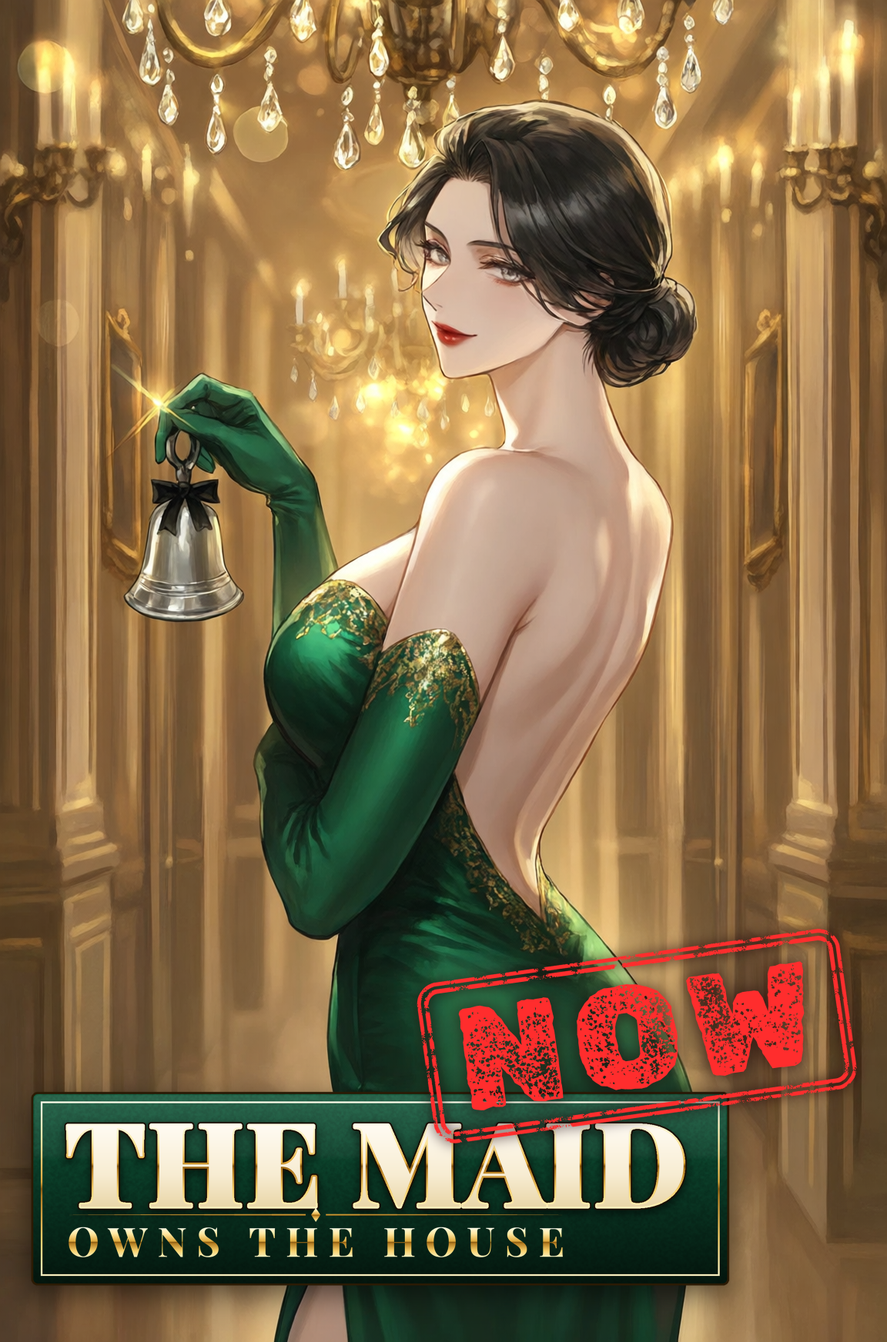
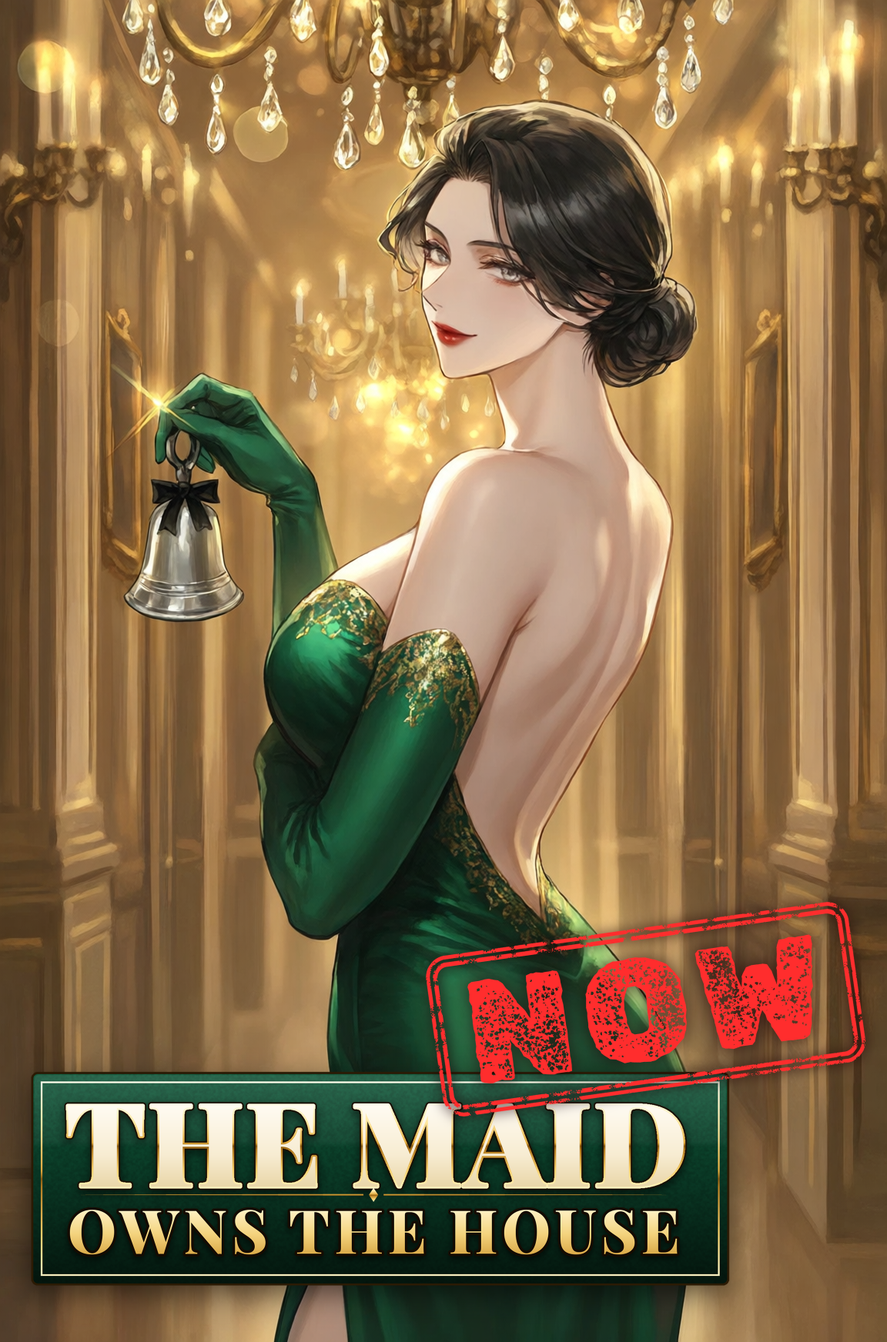
Cover titles v4: bigger lead-ins and more contrast on ten more weak covers
Every lead-in now reads on a 160 px shelf tile. One Miracle a Day: ONE /
A DAY 70 -> 124 px with a navy-black keyline. Wolf Clan's Guest: THE WOLF
CLAN'S 58 -> 92 px on its own stitched strap, off the white fur. One-Copper
Inn: THE ONE-COPPER 56 -> 76 px in pale copper with a keyline, INN tracked
wide; the sign still clears her horns. Blackthorn: The Only Girl at 64 ->
88 px, deeper crimson, white keyline. Thornwitch: The Only Man at 128 ->
152 px, thickened inside a 9 px navy outline over a darker spot. Maid: OWNS
THE HOUSE as wide as THE MAID (640 tracked -> 790 px) in light gold with a
keyline; NOW lifted off the letters. Villain Dies: CHAPTER THREE 42 -> 66 px,
dies in 64 -> 72 px (800), Villain 176 -> 150; the page now tilts +6 deg so
it stays under her gloved hand. One-Year Bride: ONE-YEAR cap 48 -> 78 with a
keyline, heavier keyline on Bride. Annulled: ANNULLED, THEN 62 -> 88 px with
a dark-green keyline, strike rule widened. Struck: STRUCK FROM THE cap
38 -> 54. ALLOCATION rows and zones updated; the checker passes.

Changed region(s): [[0.0312, 0.6502, 0.9688, 0.9599]]

diff --git a/docs/stories-50/cover-style-v3/titles/ALLOCATION.md b/docs/stories-50/cover-style-v3/titles/ALLOCATION.md
@@ -43,7 +43,7 @@ are at least ~45% of its cap height, so every word still reads on a 160 px shelf
 | # | storyId | Title | Recipe | Genre / tone | Primary | Accent | Place | Treatment | Zone | Face | Brief |
 |---|---|---|---|---|---|---|---|---|---|---|---|
 | 1 | story_affection_97 | Affection: 97 | holy-high-key | Court romance-fantasy comedy; airy, teasing | Cormorant | Orbitron | LR | glass status window | .33-.94,.45-.93 | .37-.63,.06-.30 | A frosted-glass status window about 60% of the cover wide over the chest and waist, below his hand (pearl-white plate, deep rose-gold border, a stronger pink outer glow so the window lifts off the white suit). Hero: a giant "97" in Cormorant 700 lining figures, rose-to-gold gradient; above it "Affection" in Cormorant italic 700, deep rose #9b2251 with a white halo; an Orbitron "CROWN PRINCE" micro-label and a 97% pink gauge bar with a heart sell the game window. Art: white, silver, ice blue. |
-| 2 | story_annulled_then_claimed | Annulled, Then Claimed | gilded-over-the-shoulder | Villainess romance fantasy; scandal turned rescue, glamorous | Great Vibes | Cinzel | BT | gold swash + strike rule | .08-.92,.70-.95 | .44-.64,.05-.22 | "ANNULLED, THEN" in tracked Cinzel ivory caps with a thin crimson rule struck through ANNULLED; hero "Claimed" huge in Great Vibes, gold metal fill, deep-emerald stroke and a swash underline, centred on the emerald coat. Gold on emerald, one red line. |
+| 2 | story_annulled_then_claimed | Annulled, Then Claimed | gilded-over-the-shoulder | Villainess romance fantasy; scandal turned rescue, glamorous | Great Vibes | Cinzel | BT | gold swash + strike rule | .08-.92,.70-.95 | .44-.64,.05-.22 | "ANNULLED, THEN" in Cinzel 800 ivory caps at 88 px (cap about 62 px; was 62 px tracked wide, lost on the shelf) with a dark-green keyline and shadow, and a crimson rule struck through ANNULLED; hero "Claimed" huge in Great Vibes, gold metal fill, deep-emerald stroke and a swash underline, centred on the emerald coat. Gold on emerald, one red line. |
 | 3 | story_back_row_at_my_own_wedding | Back Row at My Own Wedding | melodrama-red-accent | Modern revenge melodrama with comedy; humiliation at the altar | Parisienne | Playfair Display | LR | chalk welcome board | .24-.98,.70-.97 | .17-.44,.18-.36; .50-.74,.03-.19 | The wedding welcome board, big: a charcoal slate with a gold frame, tilted -3 deg, 73% of the cover wide at lower right under both faces, where her hand seems to hold it and the roses show below. Hero "Back Row" in Parisienne chalk at a 124 px cap with a 3 px chalk stroke so the script has weight; "AT MY OWN WEDDING" in Playfair Display 700 caps at a 44 px cap; above them a crossed-out "Front Row" in chalk with a red chalk strike and a red chalk heart. Chalk white on slate against blue church light and red roses. |
 | 4 | story_cleanup_crew_e_rank | Cleanup Crew, E-Rank | system-window | Dungeon action comedy, underdog; blue-collar | Bungee | none | DG | hazard tape | .04-.96,.08-.29 | .42-.60,.34-.48 | Hazard tape strung across the corridor in front of the red gate, rising +7 deg above her head: hero "CLEANUP CREW" in black Bungee on yellow #ffd21a tape with black chevron ends, and "E-RANK" smaller in a worn grey hex rank badge (red E) pinned to the tape end. Yellow and black against acid green; the gate stays half visible. |
 | 5 | story_crest_academy | Crest Academy | holy-high-key | Noble academy fantasy, stats and duels; bright rivalry | Marcellus | none | BT | academy seal lockup | .10-.90,.63-.97 | .42-.66,.06-.24 | An academy seal: a large navy enamel shield (silver rim and inline, a silver star over two crossed rapiers) stands behind the middle of hero "CREST", set across it in Marcellus at about 76% of the cover width, navy enamel with a silver keyline, a navy edge and a pearl halo so the letters read on the white skirt and on the shield; "ACADEMY" in widely tracked silver Marcellus on a navy ribbon with forked tails over the shield's point. Navy and silver on pearl white. |
@@ -59,9 +59,9 @@ are at least ~45% of its cap height, so every word still reads on a 160 px shelf
 | 15 | story_married_to_the_shrine_fox | Married to the Shrine Fox | gilded-over-the-shoulder | Yokai romcom; teasing, imperious, warm | Shojumaru | Cormorant | LR | vermilion lacquer + gold | .38-.96,.76-.96 | .45-.60,.06-.18 | Reworked from the sample so every line reads left to right, nothing turned on its side: "Married to the" in Cormorant italic 600 warm ivory, then hero "SHRINE FOX" in Shojumaru, torii-vermilion #d8432a lacquer fill with an ivory inline and a gold outer stroke, right-aligned over the floor and kimono hem, with small gold fox-fire sparkles. Vermilion and gold on emerald. |
 | 16 | story_noodles_or_blood | Noodles or Blood | hot-pink-poster | Martial-arts dorm comedy; scrappy, hungry | Potta One | Protest Revolution | DG | noren banner + drips | .10-.83,.68-.98 | .32-.58,.04-.22 | A ramen-shop noren tilted -6 deg across the black trousers: crimson cloth with soft fold shading and a woven brush texture, a darker top hem on a wooden rod, and two slits cut up from the hem so it hangs as three panels. Hero "NOODLES" in fat Potta One cream with a brown stroke, a small "or", and "BLOOD" in Protest Revolution dry brush, also cream with a near-black stroke so the two words balance, with glossy red drips running from its letters down the cloth. Crimson, cream and red on pink. |
 | 17 | story_nova_house | Nova House | cosy-lamp-bokeh | Mind-reading house mystery; cosy on top, menace underneath | Poiret One | none | UL | lamp glow | .03-.47,.02-.19 | .50-.74,.08-.27 | Corner logo in the dark bookcase corner above the lamp: hero "NOVA" in Poiret One across x .03-.47, thickened with a 5 px same-colour stroke and edged with a 4 px dark-brown keyline (#1e1008) so the hairline face holds against the bright window, warm white-gold with a soft screen-blend lamp glow and a four-point nova sparkle on the O; "HOUSE" under it at about 0.7x NOVA's cap with the same stroke and keyline, tracked to the same width. A dark warm spot (#140c05, 0.78) behind it keeps the letters off the bokeh. Amber and cream. |
-| 18 | story_one_miracle_a_day | One Miracle a Day | starlit-night | Minor-god tournament fantasy; hopeful, sweet | Pinyon Script | Marcellus | CG | holy gold glow + starburst | .10-.90,.63-.85 | .43-.53,.11-.18 | Centred in the galaxy gap under the floating goddess: "ONE" and "A DAY" in tracked Marcellus silver; hero "Miracle" in Pinyon Script with gold metal fill, a 3 px white inner stroke to hold the hairlines and a soft gold halo, a starburst sparkle on the i. Gold on cobalt cosmos. |
+| 18 | story_one_miracle_a_day | One Miracle a Day | starlit-night | Minor-god tournament fantasy; hopeful, sweet | Pinyon Script | Marcellus | CG | holy gold glow + starburst | .10-.90,.66-.92 | .43-.53,.11-.18 | Centred in the galaxy gap under the floating goddess: "ONE" and "A DAY" in Marcellus at 124 px (cap about 88 px, was 70 px tracked wide and thin), white-silver with a 7 px navy-black keyline and a dark shadow so they hold on the stars; hero "Miracle" in Pinyon Script with gold metal fill, a 3 px white inner stroke to hold the hairlines and a soft gold halo, a starburst sparkle on the i. Gold on cobalt cosmos. |
 | 19 | story_one_week_she_said | One Week, She Said | cosy-lamp-bokeh | Second-chance romance, slice of life; rainy, tender | Nanum Pen Script | none | LR | sticky note | .50-.96,.74-.96 | .40-.62,.05-.29 | A pale-yellow sticky note with a curled corner and soft shadow, tilted +4 deg over the couch and socks: hero "One week," big and "she said." smaller in Nanum Pen Script blue-ballpoint ink, with seven tally marks and the last one circled. Pastel note on cream sweater and rain-grey. |
-| 20 | story_one_year_bride | One-Year Bride | gilded-over-the-shoulder | Contract-marriage romcom; poised, rule-bound | Alex Brush | Italiana | LL | contract signature + wax seal | .04-.90,.70-.91 | .50-.68,.05-.22 | No card: the contract, signed. Over a dark warm spot on the gold floor at lower left, rising -4 deg: "ONE-YEAR" typed in tracked Italiana ivory, then a dotted "x ...." signature line running 86% of the cover wide, with hero "Bride" signed across it in huge gold Alex Brush (690 px wide, dark keyline, warm glow) and a gold curled flourish under it, ending in a red wax seal with a B. Gold and ivory over the emerald dress. |
+| 20 | story_one_year_bride | One-Year Bride | gilded-over-the-shoulder | Contract-marriage romcom; poised, rule-bound | Alex Brush | Italiana | LL | contract signature + wax seal | .04-.91,.67-.91 | .50-.68,.05-.22 | No card: the contract, signed. Over a dark warm spot on the gold floor at lower left, rising -4 deg: "ONE-YEAR" typed in Italiana ivory at a 78 px cap (was 48), thickened with an ivory inner stroke and a dark keyline, then a dotted "x ...." signature line running 86% of the cover wide, with hero "Bride" signed across it in huge gold Alex Brush (690 px wide, 5 px dark keyline, warm glow) and a gold curled flourish under it, ending in a red wax seal with a B. Gold and ivory over the emerald dress. |
 | 21 | story_pack_rank | Pack Rank | thumbnail-pop | Beastfolk martial academy rivalry; feral, fast | Reggae One | none | DG | claw-scratch cuts | .04-.96,.78-.97 | .34-.64,.14-.34 | "PACK" small over hero "RANK" in Reggae One, white with a black stroke and a steel-grey drop shadow, tilted -5 deg across the trousers and tail, cut by three diagonal claw scratches (see-through gaps) with a cyan electric glow along the cuts. White, black and cyan on yellow. |
 | 22 | story_paid_to_kill_me | Paid to Kill Me | ink-and-one-red | Bodyguard romance thriller; cold, dangerous | Bebas Neue | Alfa Slab One | WR | rubber stamp + ink | .03-.29,.03-.17; .69-.97,.03-.20 | .42-.62,.08-.25 | Wrapped around his head in the rainy sky: "PAID" as a red #d7141d rubber stamp (Alfa Slab One, double rectangle border, distressed, -8 deg) top-left; top-right "TO" small over hero "KILL" / "ME" in Bebas Neue black with a thin white stroke, plus one red ink splatter. Black ink and one red on white. |
 | 23 | story_rank_zero | Rank Zero | thumbnail-pop | Hero-college action mystery; defiant, explosive | Anton | Orbitron | DG | chrome + LCD readout | .16-.95,.59-.98 | .44-.70,.06-.28 | One lockup tilted -7 deg over the arm and waist: "RANK" in Orbitron 800 (cap about 0.4x ZERO) as a red scanline readout on a black LCD bar with a red status dot, sitting directly on hero "ZERO" in Anton chrome metal with a black keyline; an orange burst with ember sparks behind both (the rating machine caught fire). Chrome, red and fire-orange on yellow. |
@@ -71,19 +71,19 @@ are at least ~45% of its cap height, so every word still reads on a 160 px shelf
 | 27 | story_roommate_lottery | Roommate Lottery | cosy-lamp-bokeh | Campus roommate romcom; chaotic, playful | Hachi Maru Pop | Alfa Slab One | UL | scratch-card ticket | .02-.44,.11-.39 | .46-.70,.09-.25 | A real scratch ticket filling the window corner, tilted -6 deg: candy-pink halftone card with a white border, a perforated top edge torn off a booklet and a dotted tear line, three stars; a silver foil panel with grain and scratch marks, scratched off in a ragged window to reveal hero "ROOM" over "MATE" in Hachi Maru Pop hot pink (74 px cap, thickened, dark keyline), silver flecks left on it and a gold coin at its edge; "LOTTERY" under it in heavy Alfa Slab One white with a dark extrusion. Pink and silver over the rainy city. |
 | 28 | story_seven_years_early | Seven Years Early | ink-and-one-red | Regression revenge, corporate; icy, precise | Oswald | none | LR | red block + rewind echoes | .24-.98,.74-.96 | .28-.48,.07-.24 | Out of the top corner and off black type: a solid red #d3121c block at lower right over her legs and the rainy city, "SEVEN YEARS" / "EARLY" in white Oswald 700 at one 96 px cap, two black rewind chevrons before EARLY, and two thin red outlines of the block stepping up and left behind it like rewound frames. White on one red over ink grey. |
 | 29 | story_skill_error | Skill: ERROR | system-window | Isekai OP-skill comedy-drama; glitchy, ominous | Chakra Petch | VT323 | TB | glitch HUD box (sample) | .06-.94,.03-.21 | .38-.60,.29-.42 | Sample, kept as approved: "SKILL:" in VT323 in a green HUD box, hero "ERROR" in Chakra Petch red with RGB glitch slices. |
-| 30 | story_struck_from_the_register | Struck From the Register | gilded-over-the-shoulder | Sword-house underdog drama; disgrace, resolve | Yuji Syuku | none | DG | rice-paper strip + brush strike | .04-.96,.63-.89 | .42-.60,.08-.22 | The family register: a torn cream rice-paper strip tilted -6 deg across the robe, "STRUCK FROM THE" small and hero "REGISTER" in Yuji Syuku black ink (the light serif reads solid on the paper), with one thick red dry-brush stroke struck through REGISTER. Ink and vermilion on cream over emerald and gold. |
+| 30 | story_struck_from_the_register | Struck From the Register | gilded-over-the-shoulder | Sword-house underdog drama; disgrace, resolve | Yuji Syuku | none | DG | rice-paper strip + brush strike | .04-.96,.63-.90 | .42-.60,.08-.22 | The family register: a torn cream rice-paper strip tilted -6 deg across the robe, "STRUCK FROM THE" at a 54 px cap (was 38, tracked wide) with a heavier ink stroke, and hero "REGISTER" in Yuji Syuku black ink (the light serif reads solid on the paper), with one thick red dry-brush stroke struck through REGISTER. Ink and vermilion on cream over emerald and gold. |
 | 31 | story_ten_points_to_expulsion | Ten Points to Expulsion | holy-high-key | Points-system academy drama; tense, clever | Teko | VT323 | LL | points bar | .04-.96,.68-.90 | .40-.60,.05-.22 | Upright, no plate: a navy double rule like the head of a disciplinary notice, hero "TEN POINTS" in Teko 700 navy with TEN in red, "TO EXPULSION" in tracked Teko 600 navy at the same width, then a thick white points meter with a navy frame and only its first segment lit red; beside it the score "1000" struck through in red and a big red "10" in VT323. Navy and red on the white dress and window light. |
 | 32 | story_the_cult_master_wakes_as_a_servant | The Cult Master Wakes as a Servant | ink-and-one-red | Murim revenge, martial arts; cold, patient | Protest Revolution | Shippori Mincho B1 | DG | sumi swash knockout + hanko | .00-1.00,.66-1.00 | .42-.60,.08-.24 | A wide black sumi dry-brush swash tilted -6 deg across the trousers, bleeding off the right edge in dry streaks; on it "THE CULT" over hero "MASTER" (75% of the cover wide) in Protest Revolution paper-white, roughened and distressed so the strokes read as brush; a thin red rule, then "WAKES AS A SERVANT" in Shippori Mincho B1 800 white at a 45 px cap; a red hanko seal 教主 on the swash's top edge and a few ink splatters. Black ink, white paper, one red; nothing left in the top-right corner. |
 | 33 | story_the_hero_s_spare | The Hero’s Spare | system-window | Isekai survival comedy; the hero's backup | Gochi Hand | Marcellus | TB | gold banner + name-tag sticker | .03-.86,.03-.29; .06-.42,.29-.30 | .42-.60,.29-.42 | Top band over the empty dark sky, so her face, the hologram hand and her hand on the hilt all stay clear: a gold engraved banner "THE HERO'S" in Marcellus at 128 px (cap about 90 px, with a thin dark keyline so it holds at shelf size), and slapped over its lower edge at -4 deg a white HELLO MY NAME IS name tag two thirds of the cover wide with a red top band, where hero "SPARE" is scrawled in black Gochi Hand felt-tip at about a 127 px cap. Gold banner vs cheap sticker on dark green. |
 | 34 | story_the_last_mimic | The Last Mimic | hot-pink-poster | Monster-isekai comedy; greedy, bouncy | Titan One | none | CW | treasure gold + fangs | .04-.70,.58-.68; .04-.96,.66-.91 | .32-.64,.04-.26 | "THE LAST" on a gold lock-plate tag (Titan One, dark brown, cap about 100 px, a keyhole between the words, a rivet at each corner) docked on the top-left corner of the giant hero word; the plate stops short of her pointing thumb. It was a cover-corner tag, too small to read on the shelf. Giant hero at the bottom: "MIMIC" in Titan One treasure-gold metal with a dark-brown stroke, bouncy alternating jitter, and a row of white fangs hanging from the bottom edge like a chest lid. Gold and brown on hot pink. |
-| 35 | story_the_maid_owns_the_house_now | The Maid Owns the House Now | gilded-over-the-shoulder | Role-reversal romcom; dry, glamorous | Playfair Display | Rubik Dirt | LL | velvet nameplate + auction stamp | .03-.97,.69-.96 | .50-.68,.06-.20 | A deep emerald-to-black velvet nameplate (gold inline border, soft shadow) in the lower left, 78% of the cover wide: hero "THE MAID" in upright Playfair Display 900 capitals, pearl-ivory with a gold edge and a dark keyline, a gold diamond rule, then "OWNS THE HOUSE" in tracked gold Playfair caps (ivory, not gold, so it does not echo the Inherited plaque). The punchline "NOW" is a big red auction rubber stamp in Rubik Dirt (double rough border, dark halo) at -8 deg, overlapping the plate's top edge. Gold and ivory on emerald velvet, one red. |
+| 35 | story_the_maid_owns_the_house_now | The Maid Owns the House Now | gilded-over-the-shoulder | Role-reversal romcom; dry, glamorous | Playfair Display | Rubik Dirt | LL | velvet nameplate + auction stamp | .03-.98,.67-.96 | .50-.68,.06-.20 | A deep emerald-to-black velvet nameplate (gold inline border, soft shadow) in the lower left, 78% of the cover wide: hero "THE MAID" in upright Playfair Display 900 capitals, pearl-ivory with a gold edge and a dark keyline, a gold diamond rule, then "OWNS THE HOUSE" in Playfair Display 800 caps as wide as THE MAID (790 px, was 640 px tracked), a light-gold gradient with a dark keyline (not metal gold, so it does not echo the Inherited plaque). The punchline "NOW" is a big red auction rubber stamp in Rubik Dirt (double rough border, dark halo) at -8 deg, overlapping the plate's top edge clear of the letters. Gold and ivory on emerald velvet, one red. |
 | 36 | story_the_morning_of_the_gallows | The Morning of the Gallows | holy-high-key | Dark regression romance; cold, elegant | Bodoni Moda | Alex Brush + Cinzel | BT | script + Didone (sample) | .06-.94,.68-.96 | .33-.63,.06-.28 | Sample, kept as approved: "The Morning" in crimson Alex Brush, "OF THE" in Cinzel, hero "GALLOWS" in big black Bodoni Moda with diamond-ended rules. |
-| 37 | story_the_one_copper_inn | The One-Copper Inn | cosy-lamp-bokeh | Cosy isekai innkeeping romance; warm, homely | Rye | none | TB | hanging inn sign, copper | .08-.92,.02-.18 | .50-.64,.21-.31 | A hanging wooden inn sign (dark walnut plate on two chains up to the top edge) across the string lights: "THE ONE-COPPER" small and hero "INN" in Rye with copper metal fill and a carved dark inner shadow, a copper coin on the left end. Copper and walnut in amber light. |
-| 38 | story_the_only_girl_at_blackthorn | The Only Girl at Blackthorn | holy-high-key | Knight-academy romance rivalry; proud, sharp | Pirata One | Grenze Gotisch | UL | blackletter + crimson keyline + thorn vine | .03-.43,.02-.29 | .44-.62,.08-.25 | Upper left over the bright gothic window: "The Only Girl at" in Grenze Gotisch 600 crimson #b0345a at 64 px (its t reads), over hero "BLACK" / "THORN" on two lines in Pirata One solid black, each about 38% of the cover wide, with a thin white gap and a crimson keyline, and a crimson thorn-vine rule under THORN. Black and crimson on white window light; the bottom band is left to Thornwitch. |
-| 39 | story_the_only_man_at_thornwitch | The Only Man at Thornwitch | starlit-night | Witch-college romcom mystery; moonlit, mischievous | Limelight | Great Vibes | CG | moon-silver + thorn vines | .07-.93,.74-.95 | .43-.52,.10-.17 | Centred in the open galaxy below her dress, read as one title: "The Only Man at" in Great Vibes moon-silver with a navy stroke and a pale-blue glow, its tail tucked into the top of hero "THORNWITCH" in Limelight with moon-silver metal fill and a dark navy keyline, a thorn-vine ornament with silver thorns curling under it. Silver and navy on deep blue. |
+| 37 | story_the_one_copper_inn | The One-Copper Inn | cosy-lamp-bokeh | Cosy isekai innkeeping romance; warm, homely | Rye | none | TB | hanging inn sign, copper | .08-.92,.02-.18 | .50-.64,.21-.31 | A hanging wooden inn sign (dark walnut plate on two chains up to the top edge) across the string lights, kept above her horns: "THE ONE-COPPER" in Rye at 76 px (cap about 58 px, was 56 px), pale copper with a dark keyline, and hero "INN" in Rye at 130 px, tracked wide, with copper metal fill and a carved dark inner shadow, a copper coin on the left end. Copper and walnut in amber light. |
+| 38 | story_the_only_girl_at_blackthorn | The Only Girl at Blackthorn | holy-high-key | Knight-academy romance rivalry; proud, sharp | Pirata One | Grenze Gotisch | UL | blackletter + crimson keyline + thorn vine | .03-.49,.02-.07; .03-.43,.07-.30 | .44-.62,.08-.25 | Upper left over the bright gothic window: "The Only Girl at" in Grenze Gotisch 700 deep crimson #9e2148 at 88 px (was 600 at 64 px) with a white keyline and halo, running above his hair line, over hero "BLACK" / "THORN" on two lines in Pirata One solid black, each about 38% of the cover wide, with a thin white gap and a crimson keyline, and a crimson thorn-vine rule under THORN. Black and crimson on white window light; the bottom band is left to Thornwitch. |
+| 39 | story_the_only_man_at_thornwitch | The Only Man at Thornwitch | starlit-night | Witch-college romcom mystery; moonlit, mischievous | Limelight | Great Vibes | CG | moon-silver + thorn vines | .06-.94,.73-.95 | .43-.52,.10-.17 | Centred in the open galaxy below her dress, read as one title: "The Only Man at" in Great Vibes moon-silver at 152 px (was 128), thickened with a white inner stroke inside a 9 px navy outline, over a darker spot, with a pale-blue glow, its tail tucked into the top of hero "THORNWITCH" in Limelight with moon-silver metal fill and a dark navy keyline, a thorn-vine ornament with silver thorns curling under it. Silver and navy on deep blue. |
 | 40 | story_the_ranking_board | The Ranking Board | thumbnail-pop | Fighting-college action; bruising, competitive | Barlow Condensed | none | LL | smoked-glass leaderboard | .02-.62,.60-.98 | .42-.65,.05-.24 | The glass ranking wall in the yellow burst under her fist, lower left: a near-opaque smoked-glass panel with a white top rule, "THE" in white on a red tab (cap about 70 px), hero "RANKING" and "BOARD" in Barlow Condensed italic 800 white (caps about 110 and 148 px), and three leaderboard rows (86, 87, 88) with 87 on a red bar. Smoked black glass and red on yellow. |
-| 41 | story_the_villain_dies_in_chapter_three | The Villain Dies in Chapter Three | holy-high-key | Transmigration academy comedy; doomed, smug | UnifrakturMaguntia | Shippori Mincho B1 | DG | book page + ribbon bookmark | .25-.97,.77-.98 | .42-.64,.08-.28 | A web-novel page: a cream book page with a deckled edge tilted -6 deg over the white gown below her gloved hand, hero "The Villain" in UnifrakturMaguntia black (176 px), "dies in" in Shippori Mincho B1 600 at 64 px between two thin rules, "CHAPTER THREE" in Shippori caps on a red ribbon bookmark, and one red drop. Black and red on cream and white. |
-| 42 | story_the_wolf_clan_s_guest | The Wolf Clan’s Guest | cosy-lamp-bokeh | Beastfolk reverse-harem romance; winter camp, warm | Grenze Gotisch | none | BT | stitched leather banner | .06-.94,.76-.96 | .46-.64,.11-.25 | A stitched brown leather banner (ribbon shape, stitched edge) over the fur and boots: "THE WOLF CLAN'S" small and hero "GUEST" in Grenze Gotisch 800 bone-white from the fur with a dark keyline, a wolf-paw print at one end and a light frost sparkle. Bone and leather in lantern light. |
+| 41 | story_the_villain_dies_in_chapter_three | The Villain Dies in Chapter Three | holy-high-key | Transmigration academy comedy; doomed, smug | UnifrakturMaguntia | Shippori Mincho B1 | DG | book page + ribbon bookmark | .14-.87,.75-.98 | .42-.64,.08-.28 | A web-novel page: a cream book page with a deckled edge tilted +6 deg (down to the right, so the taller page stays under her gloved hand) over the white gown, hero "The Villain" in UnifrakturMaguntia black (150 px), "dies in" in Shippori Mincho B1 800 at 72 px between two rules, "CHAPTER THREE" in Shippori 800 caps at 66 px (cap about 49 px, was 42 px) on a red ribbon bookmark, and one red drop. Black and red on cream and white. |
+| 42 | story_the_wolf_clan_s_guest | The Wolf Clan’s Guest | cosy-lamp-bokeh | Beastfolk reverse-harem romance; winter camp, warm | Grenze Gotisch | none | BT | stitched leather banner | .06-.94,.75-.97 | .46-.64,.11-.25 | A stitched brown leather banner (ribbon shape, stitched edge) over the fur and boots, with "THE WOLF CLAN'S" at 92 px (was 58 px) on its own darker stitched strap above it so the bone letters never sit on white fur, and hero "GUEST" in Grenze Gotisch 800 bone-white from the fur with a dark keyline, a wolf-paw print at one end and a light frost sparkle. Bone and leather in lantern light. |
 | 43 | story_the_zombie_who_said_please | The Zombie Who Said Please | hot-pink-poster | Zombie survival comedy; polite undead | Creepster | Caveat | LR | slime drips + speech bubble | .40-.96,.73-.97 | .36-.62,.07-.29 | "THE" over hero "ZOMBIE" (about 0.48 of its cap) in Creepster slime green #8bd649 from the jacket with a dark stroke and drips, "who said" in Caveat bold (ascenders about 0.53 of ZOMBIE's cap) white with a dark stroke, a white outer line and ZOMBIE's pink drop shadow so it holds on the black trousers, and a pink speech bubble saying "Please" in Caveat bold black, right-aligned over the black trousers and green jacket. Slime green and pink. |
 | 44 | story_thin_walls | Thin Walls | melodrama-red-accent | Neighbour-rival romcom; sniping, close | Big Shoulders Display | none | LL | weight split + hairline wall | .03-.69,.86-.97 | .36-.60,.05-.21; .52-.70,.18-.31 | The pun in weights, one line under the rose, over the dark suit: "THIN" in Big Shoulders Display 400 ice-white at the same 142 px cap as WALLS (the pun is in the weight, not the size) with a 3 px dark keyline, a single glowing hairline standing between the words like the wall, then hero "WALLS" in Big Shoulders Display 900 at a 142 px cap, white-to-ice fill with a red keyline and a dark outer line so it never melts into the red dress. Ice white and red on blue-black. |
 | 45 | story_thirty_days_with_the_number_one_hero | Thirty Days With the Number One Hero | sunlit-webtoon-duo | Superhero fake-dating romcom; sunny, showy | Bangers | Alfa Slab One | TB | comic halftone + calendar strip | .06-.94,.03-.21 | .04-.22,.37-.50; .26-.45,.24-.40 | In the big sky: "THIRTY DAYS WITH THE" in Alfa Slab One red on a white tear-off calendar strip, then hero "NUMBER ONE HERO" in Bangers yellow #ffd23f with a navy stroke and halftone shadow, and a star badge "No.1". Comic yellow, navy and red on blue sky. |
